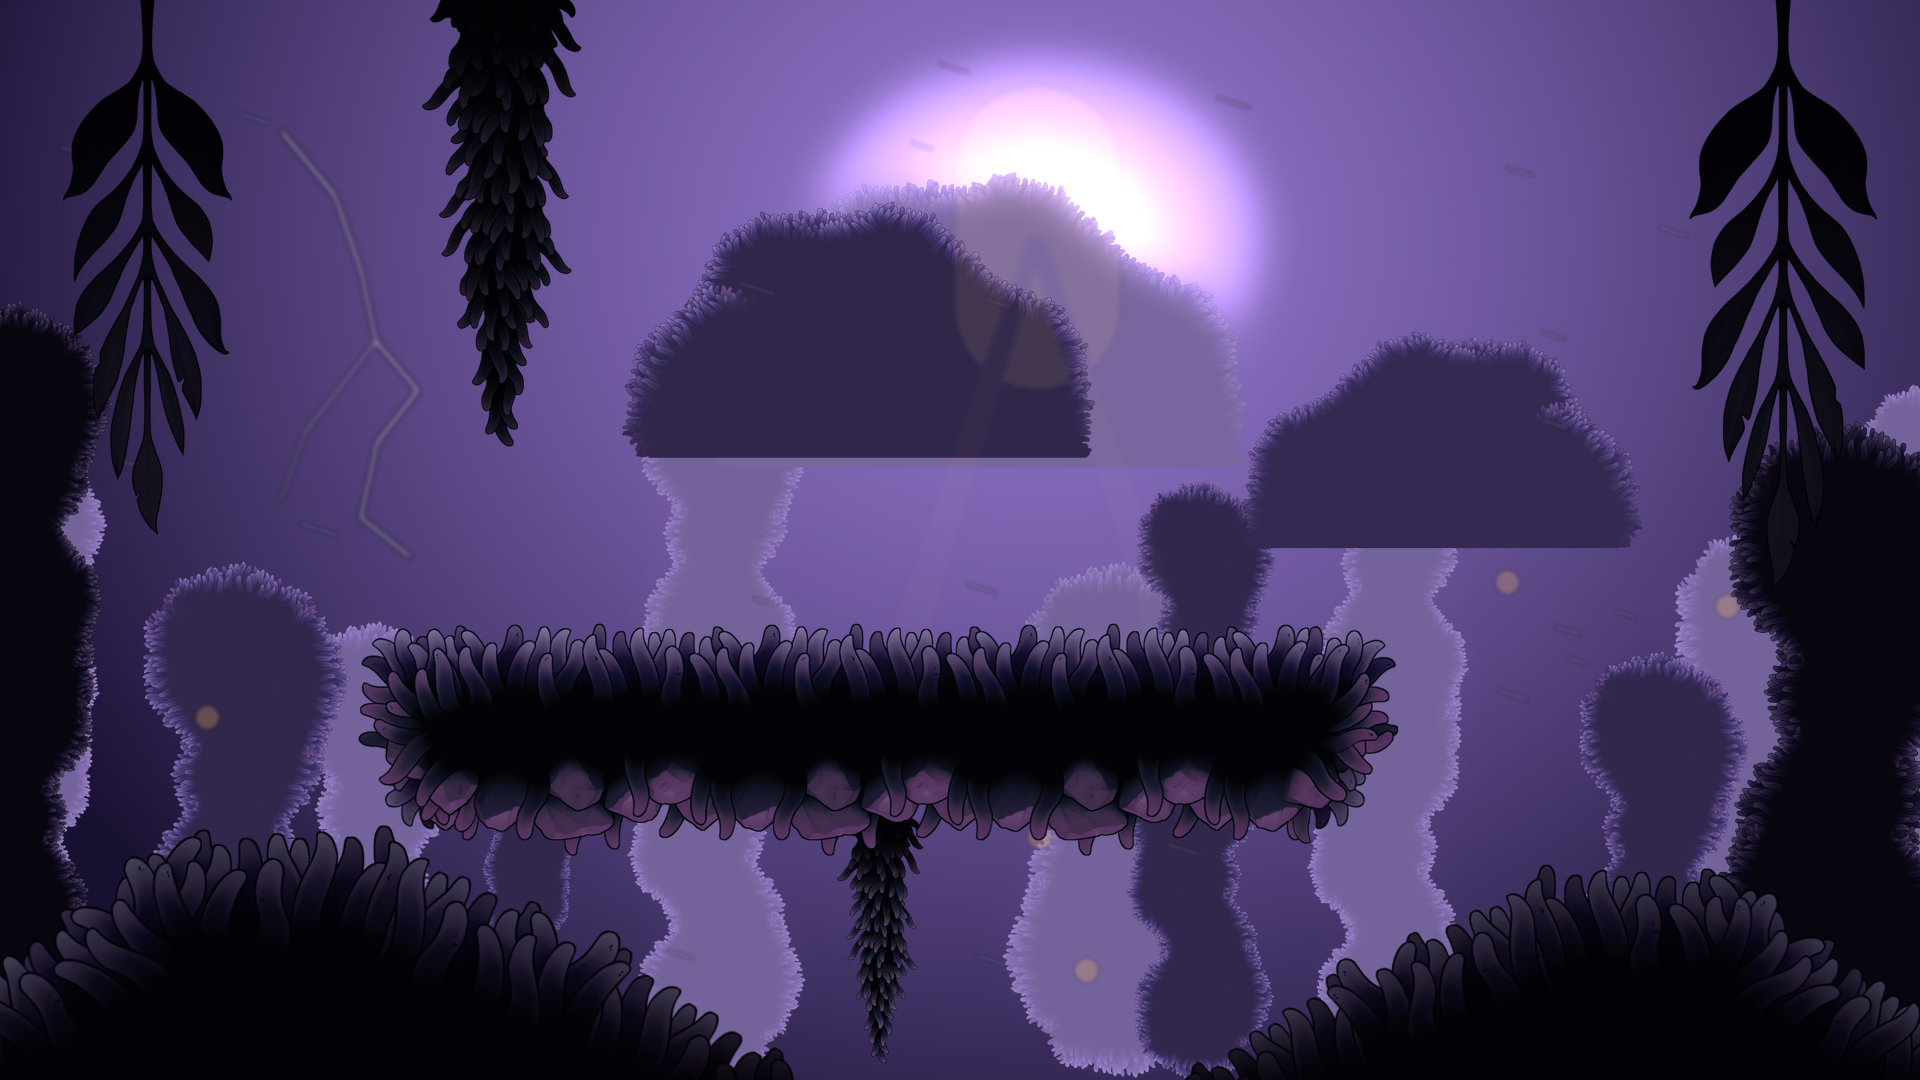
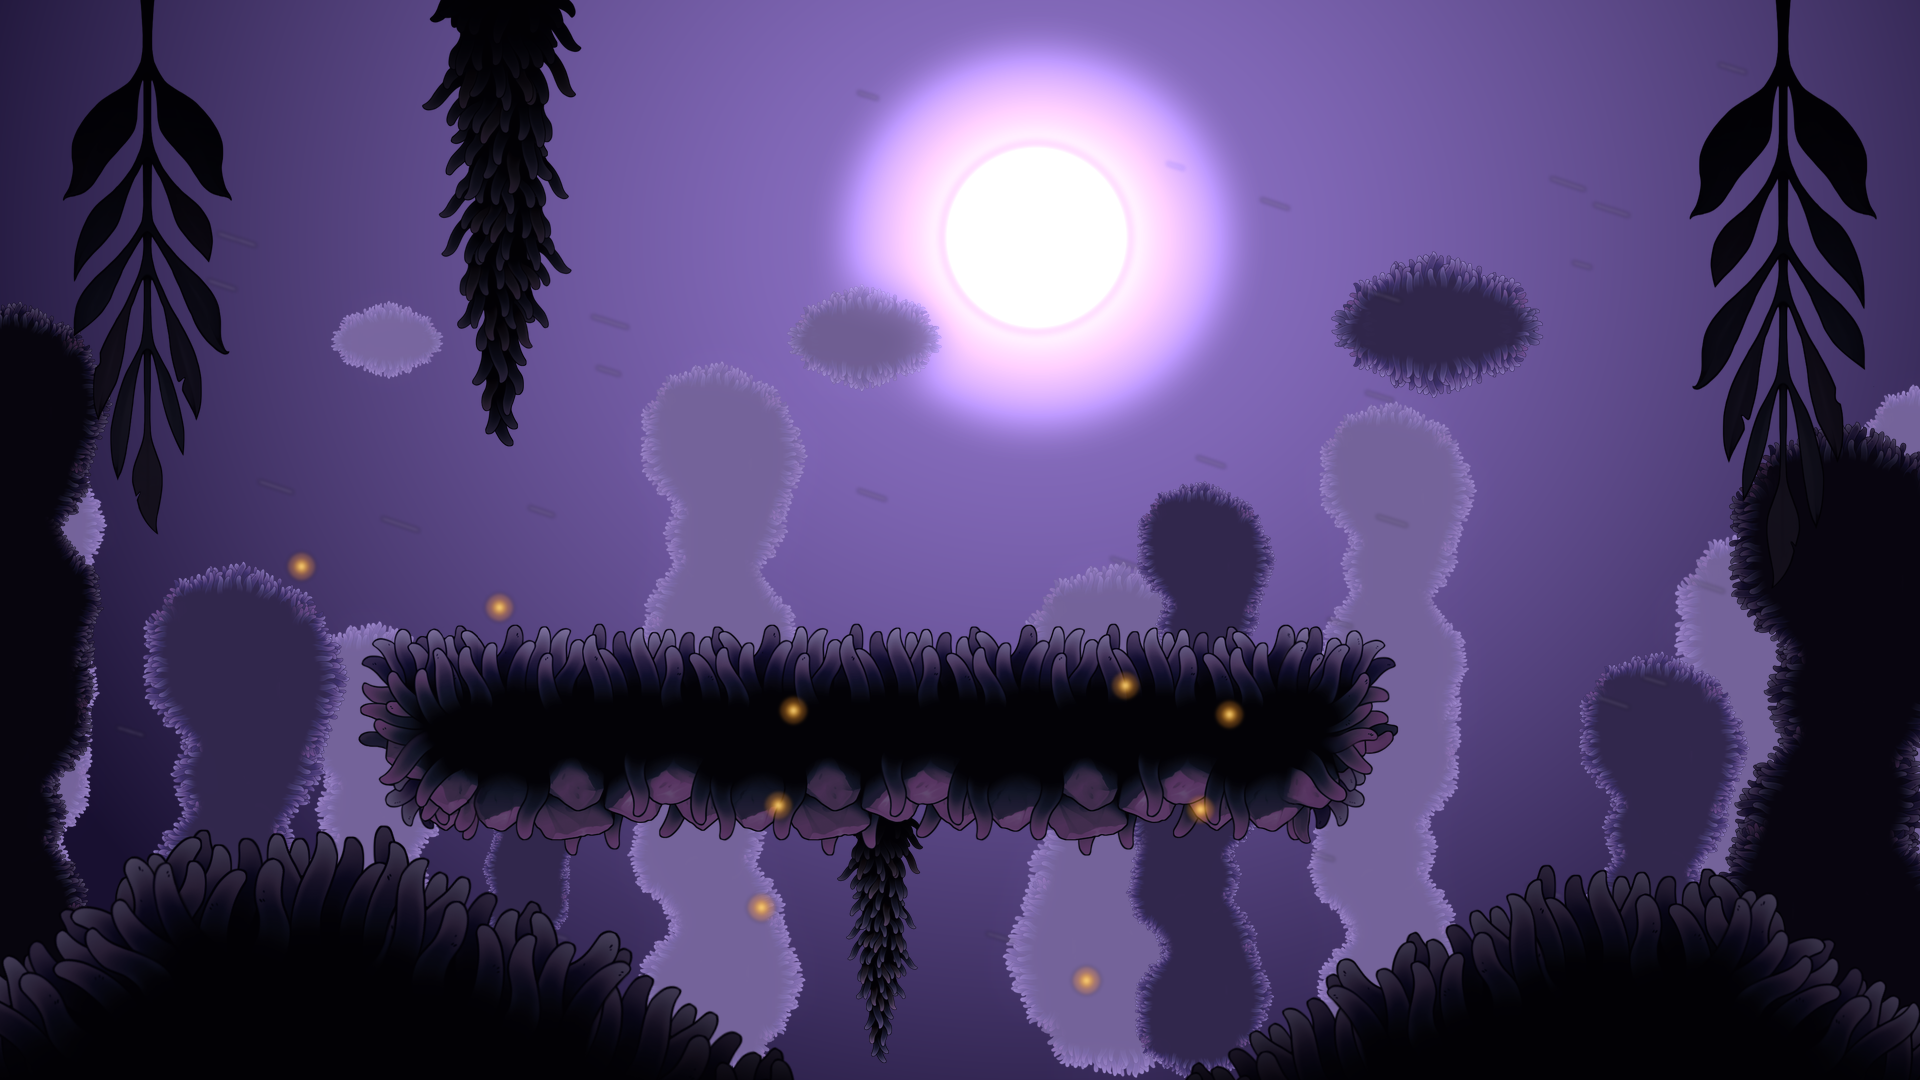
chore(realm2): target mock v6 — spherical moon, amber fireflies, floating islands
Advika feedback pass: moon now a clean disc, lightning + god-rays removed
(lightning will be an animated in-engine flash), fireflies drawn post-bloom so
the amber hue survives, flat-cut domes replaced with fringed floating islands.

diff --git a/scripts/compose_realm2_bg_mock.py b/scripts/compose_realm2_bg_mock.py
@@ -93,7 +93,7 @@ GOLD = (255, 214, 140)
 yy, xx = np.mgrid[0:H, 0:W].astype(np.float32)
 d = np.sqrt(((xx - DOOR_X) / (W * 0.60)) ** 2 + ((yy - DOOR_Y) / (H * 0.95)) ** 2)
 d = np.clip(d, 0, 1) ** 1.35
-d2 = np.sqrt(((xx - DOOR_X) / (W * 0.16)) ** 2 + ((yy - DOOR_Y) / (H * 0.22)) ** 2)
+d2 = np.sqrt((xx - DOOR_X) ** 2 + (yy - DOOR_Y) ** 2) / 250.0  # circular halo
 d2 = np.clip(d2, 0, 1)
 sky = np.zeros((H, W, 3), dtype=np.float32)
 for c in range(3):
@@ -110,7 +110,18 @@ for x, hgt, flip in [(-60, 640, 0), (270, 460, 1), (620, 720, 0), (1000, 520, 1)
     if flip:
         p = p.transpose(Image.FLIP_LEFT_RIGHT)
     canvas.alpha_composite(tint_to(scale_h(p, hgt), FAR_TINT, 0.78), (x, H - hgt))
-canvas.alpha_composite(tint_to(scale_h(dome, 300), FAR_TINT, 0.8), (700, 170))
+# ---- the moon: clean spherical disc ----
+moon = Image.new("RGBA", (W, H), (0, 0, 0, 0))
+mn = ImageDraw.Draw(moon)
+R = 92
+mn.ellipse([DOOR_X - R, DOOR_Y - R, DOOR_X + R, DOOR_Y + R], fill=(242, 234, 255, 255))
+canvas.alpha_composite(moon.filter(ImageFilter.GaussianBlur(5)))
+
+# ---- distant floating islands (foreshadow the rising chunk) ----
+isl = tint_to(scale_h(chunk_img, 110), FAR_TINT, 0.74)
+canvas.alpha_composite(isl, (int(DOOR_X) - 250, int(DOOR_Y) + 46))
+isl2 = tint_to(scale_h(chunk_img.transpose(Image.FLIP_LEFT_RIGHT), 80), FAR_TINT, 0.8)
+canvas.alpha_composite(isl2, (330, 300))
 
 # ---- mid band: medium spires + boulder domes ----
 for x, hgt, flip in [(120, 520, 1), (480, 380, 0), (1120, 600, 0), (1560, 430, 1)]:
@@ -118,52 +129,16 @@ for x, hgt, flip in [(120, 520, 1), (480, 380, 0), (1120, 600, 0), (1560, 430, 1
     if flip:
         p = p.transpose(Image.FLIP_LEFT_RIGHT)
     canvas.alpha_composite(tint_to(scale_h(p, hgt), MID_TINT, 0.52), (x, H - hgt))
-canvas.alpha_composite(tint_to(scale_h(dome, 260), MID_TINT, 0.5), (620, 200))
-canvas.alpha_composite(tint_to(scale_h(dome.transpose(Image.FLIP_LEFT_RIGHT), 220),
-                               MID_TINT, 0.55), (1240, 330))
+isl3 = tint_to(scale_h(chunk_img, 150), MID_TINT, 0.5)
+canvas.alpha_composite(isl3, (1330, 250))
 
-# ---- distant lightning vein, behind mid spires ----
-bolt = Image.new("RGBA", (W, H), (0, 0, 0, 0))
-bd = ImageDraw.Draw(bolt)
-pts = [(280, 130)]
-for _ in range(7):
-    px, py = pts[-1]
-    pts.append((px + int(rng.integers(-46, 60)), py + int(rng.integers(40, 80))))
-bd.line(pts, fill=(235, 222, 255, 210), width=4)
-fx, fy = pts[3]
-bd.line([pts[3], (fx - 70, fy + 90), (fx - 95, fy + 160)],
-        fill=(235, 222, 255, 160), width=3)
-canvas.alpha_composite(bolt.filter(ImageFilter.GaussianBlur(3)))
-
-# ---- THE SKY DOOR: small glowing arch, the destination ----
-door = Image.new("RGBA", (W, H), (0, 0, 0, 0))
-dd = ImageDraw.Draw(door)
-dw, dh = 46, 84
-dx0, dy0 = int(DOOR_X - dw / 2), int(DOOR_Y - dh / 2)
-dd.rounded_rectangle([dx0, dy0, dx0 + dw, dy0 + dh], radius=dw // 2,
-                     fill=(255, 240, 205, 235))
-for k, al in [(2.1, 46), (3.6, 24)]:
-    dd.rounded_rectangle(
-        [DOOR_X - dw * k / 2, DOOR_Y - dh * k / 2, DOOR_X + dw * k / 2, DOOR_Y + dh * k / 2],
-        radius=int(dw * k / 2), fill=(255, 214, 140, al))
-# faint god-rays falling from the door — whisper-subtle
-for ang_dx, ln in [(-180, 560), (170, 520)]:
-    dd.polygon([(DOOR_X - 8, DOOR_Y), (DOOR_X + 8, DOOR_Y),
-                (DOOR_X + ang_dx + 26, DOOR_Y + ln), (DOOR_X + ang_dx - 26, DOOR_Y + ln)],
-               fill=(255, 224, 160, 6))
-canvas.alpha_composite(door.filter(ImageFilter.GaussianBlur(3)))
-
-# ---- wind-streaked spores (storm motion) + gold fireflies ----
+# ---- wind-streaked spores (storm motion) ----
 motes = Image.new("RGBA", (W, H), (0, 0, 0, 0))
 md = ImageDraw.Draw(motes)
 for _ in range(34):
     mx, my = int(rng.integers(40, W - 40)), int(rng.integers(60, H - 120))
     ln = int(rng.integers(16, 38))
     md.line([mx, my, mx + ln, my + ln // 3], fill=(214, 198, 255, 165), width=3)
-for _ in range(10):
-    fx, fy = int(rng.integers(120, W - 120)), int(rng.integers(H // 2, H - 100))
-    md.ellipse([fx - 4, fy - 4, fx + 4, fy + 4], fill=(255, 208, 118, 240))
-    md.ellipse([fx - 12, fy - 12, fx + 12, fy + 12], fill=(255, 190, 90, 64))
 canvas.alpha_composite(motes.filter(ImageFilter.GaussianBlur(2)))
 
 # ---- near band: dark spires at edges + the floating platform mid-frame ----
@@ -203,6 +178,16 @@ vig = Image.new("L", (W, H), 0)
 ImageDraw.Draw(vig).ellipse([-W * 0.22, -H * 0.3, W * 1.22, H * 1.3], fill=255)
 vig = vig.filter(ImageFilter.GaussianBlur(170))
 canvas = Image.composite(canvas, Image.new("RGBA", (W, H), (8, 5, 20, 255)), vig)
+
+# ---- gold fireflies LAST (post-bloom/vignette) so the amber hue survives ----
+ff = Image.new("RGBA", (W, H), (0, 0, 0, 0))
+fd2 = ImageDraw.Draw(ff)
+for _ in range(9):
+    fx, fy = int(rng.integers(120, W - 120)), int(rng.integers(H // 2, H - 90))
+    fd2.ellipse([fx - 14, fy - 14, fx + 14, fy + 14], fill=(255, 150, 40, 70))
+    fd2.ellipse([fx - 7, fy - 7, fx + 7, fy + 7], fill=(255, 176, 56, 160))
+    fd2.ellipse([fx - 3, fy - 3, fx + 3, fy + 3], fill=(255, 214, 120, 255))
+canvas.alpha_composite(ff.filter(ImageFilter.GaussianBlur(2)))
 
 canvas.convert("RGB").save(OUT, quality=95)
 print("mock v3 ->", OUT)